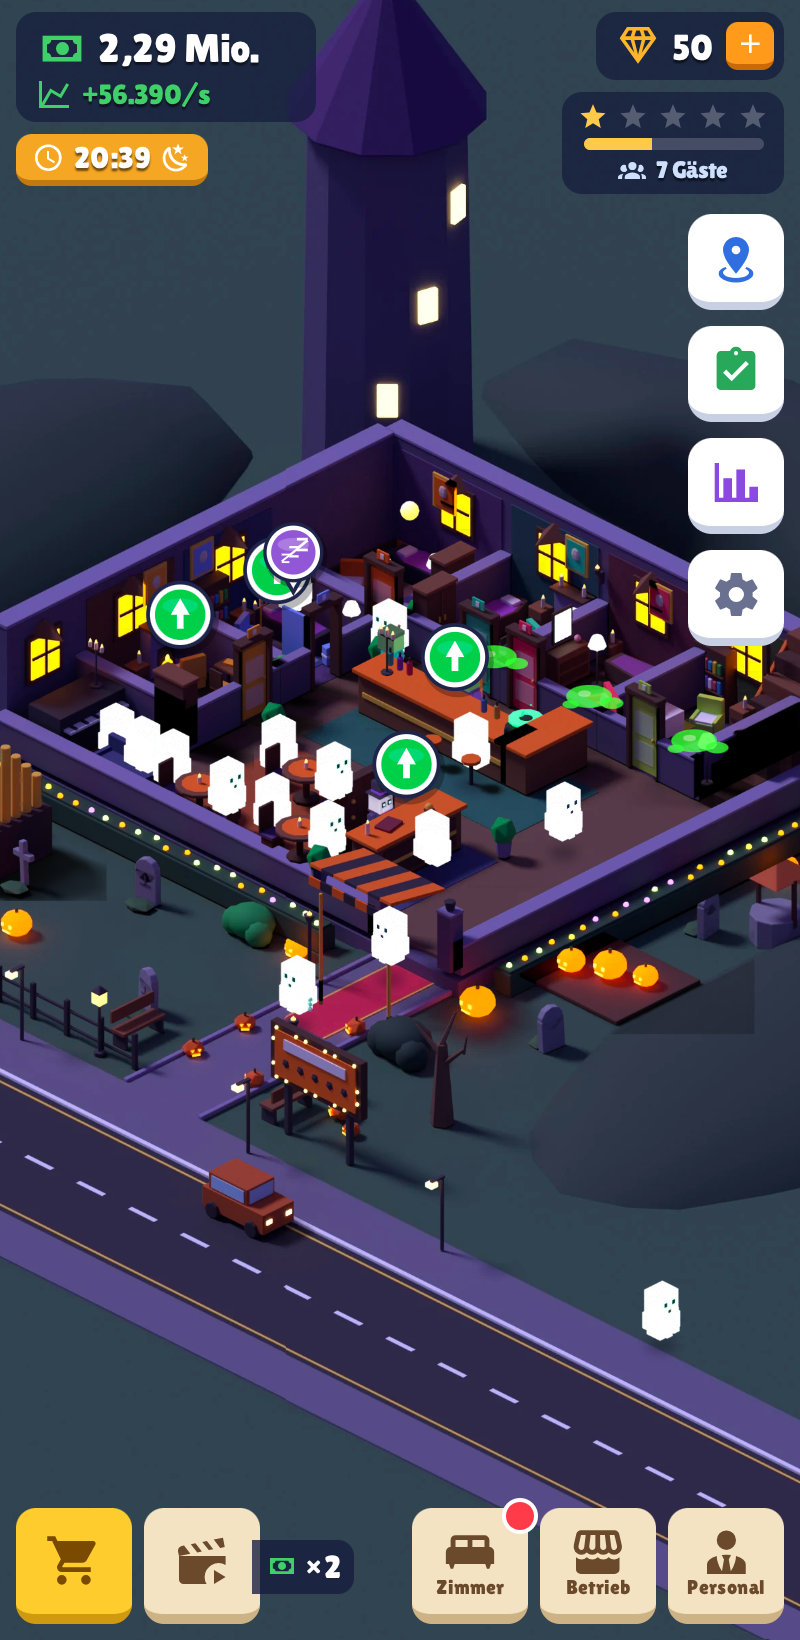
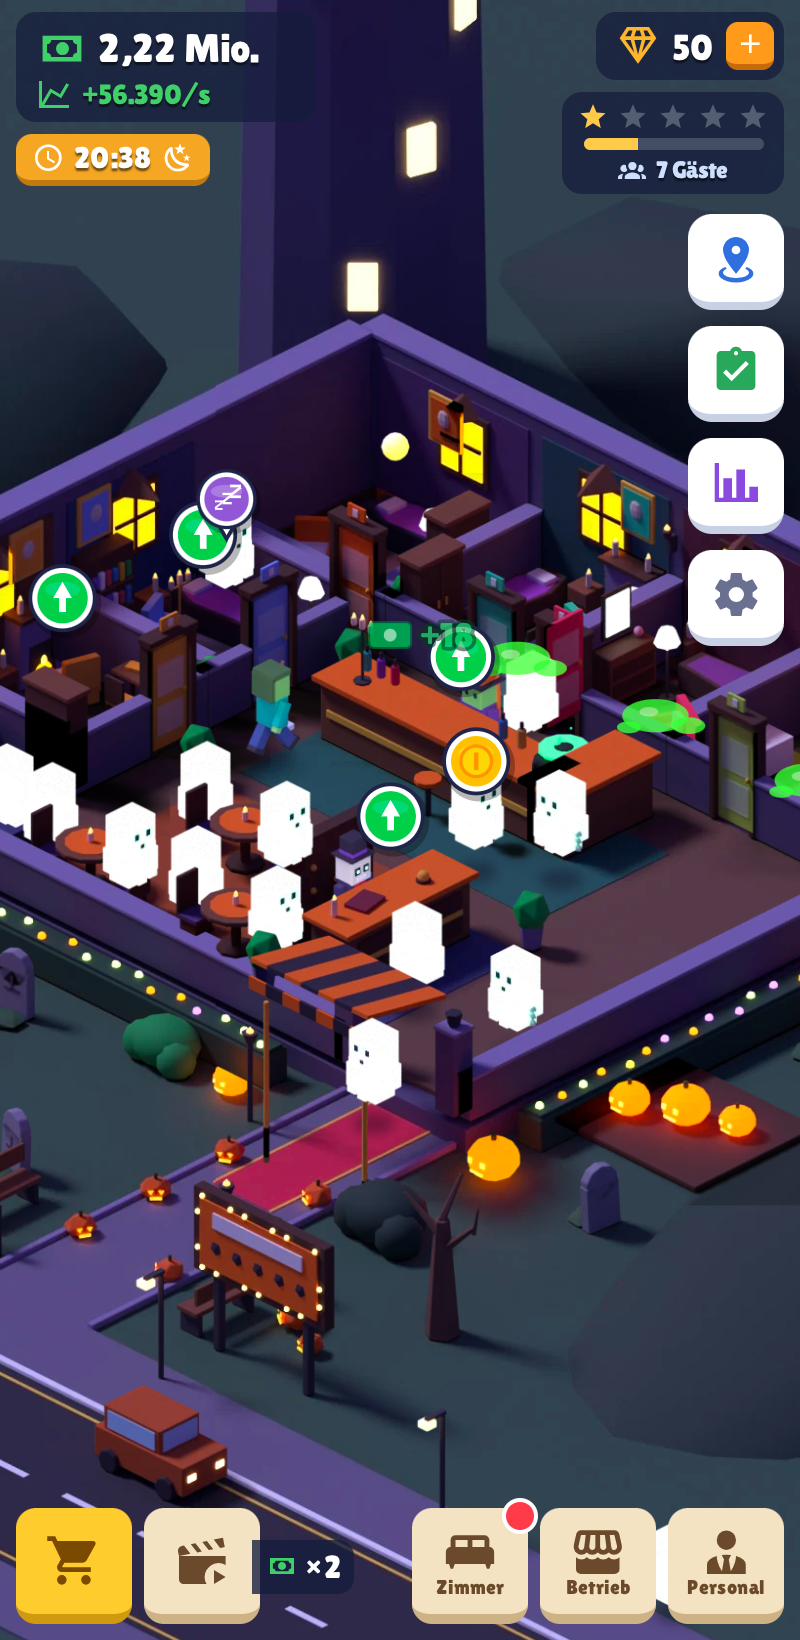
Frame the hotel, not the surroundings
Start zoomed in on the building (about twice as large on a phone) and
limit zoom-out and panning to the hotel's footprint, so towers, hills and
the road only frame the scene.

Claude-Session: https://claude.ai/code/session_01DPQSgn1wmGnehn5mqkeouH

diff --git a/components/iso/IsoScene.js b/components/iso/IsoScene.js
@@ -16,7 +16,7 @@ import {
   BAR_MAX_LEVEL, P, RECEPTION_MAX_LEVEL, ROOMS, ROOM_MAX_LEVEL, attractionSpots, barUpgradeCost,
   receptionUpgradeCost, roomUpgradeCost,
 } from '../../game/config';
-import { cam } from '../../game/camera';
+import { CAM_BOUNDS, cam } from '../../game/camera';
 import { fmt } from '../../game/format';
 import { burst, intro, useFx } from '../../game/fx';
 import { getHotel } from '../../game/hotels';
@@ -84,9 +84,16 @@ export default function IsoScene() {
   // frame the building on entering a hotel (wings are wider)
   useEffect(() => {
     const n = getHotel(hotelId).rooms.length;
-    cam.x = n > 6 ? 11.6 : 8.6;
-    cam.z = n > 8 ? 8 : n > 6 ? 7.6 : 8.4;
-    cam.zoom = n > 6 ? 0.84 : 1;
+    // start close on the building; zoom-out and panning stop at its edges,
+    // so the surroundings stay a frame instead of taking over the screen
+    const wide = n > 6;
+    cam.x = wide ? 9.4 : 6.9;
+    cam.z = wide ? 6.4 : 6.6;
+    cam.zoom = wide ? 1.25 : 1.35;
+    Object.assign(CAM_BOUNDS, {
+      minX: 2, maxX: wide ? 18 : 13, minZ: 2, maxZ: 13.5,
+      minZoom: wide ? 0.85 : 0.95, maxZoom: 2.6,
+    });
   }, [hotelId]);
 
   useEffect(() => {
